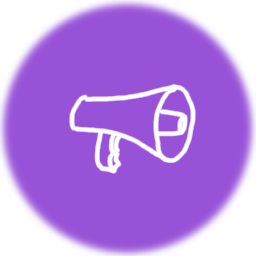
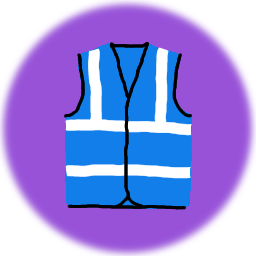
Add remaining badges and implement star system

Changed region(s): [[0.25, 0.1562, 0.7812, 0.8438]]

diff --git a/browser-extensions/chrome/js/content-scripts/content-script-athleteeventresultshistory.js b/browser-extensions/chrome/js/content-scripts/content-script-athleteeventresultshistory.js
@@ -214,11 +214,19 @@ function get_volunteer_data() {
                          // Add the badges to the list
                          Object.keys(volunteer_data).forEach(function (challenge) {
                              if (volunteer_data[challenge].complete == true) {
-                                 badges.push({
+                                 var badge_info = {
                                      "name": volunteer_data[challenge].name,
                                      "icon": chrome.extension.getURL("/images/badges/256x256/"+volunteer_data[challenge].badge_icon+".png"),
                                      "link": "#"+challenge
-                                 })
+                                 }
+                                 if (volunteer_data[challenge].subparts_completed_count >= 25){
+                                     badge_info.icon = chrome.extension.getURL("/images/badges/256x256/"+volunteer_data[challenge].badge_icon+"-3-stars.png")
+                                 } else if (volunteer_data[challenge].subparts_completed_count >= 10){
+                                     badge_info.icon = chrome.extension.getURL("/images/badges/256x256/"+volunteer_data[challenge].badge_icon+"-2-stars.png")
+                                 } else if (volunteer_data[challenge].subparts_completed_count >= 5){
+                                     badge_info.icon = chrome.extension.getURL("/images/badges/256x256/"+volunteer_data[challenge].badge_icon+"-1-star.png")
+                                 }
+                                 badges.push(badge_info)
                              }
                          })
                          add_challenge_badges(badges_div, badges)

diff --git a/browser-extensions/chrome/js/lib/challenges.js b/browser-extensions/chrome/js/lib/challenges.js
@@ -33,20 +33,20 @@ function challenge_generate_data(results) {
 function generate_volunteer_challenge_data(volunteer_data) {
 
     var volunteer_roles = [
+        {"shortname": "marshal", "name": "Marshal"},
+        {"shortname": "tail-walker", "name": "Tail Walker"},
+        {"shortname": "run-director", "name": "Run Director"},
+        {"shortname": "setup", "name": "Pre-event Setup"},
         {"shortname": "barcode-scanning", "name": "Barcode Scanning"},
         {"shortname": "close-down", "name": "Post-event Close Down"},
         {"shortname": "funnel-manager", "name": "Funnel Manager"},
         {"shortname": "manual-entry", "name": "Number Checker"},
         {"shortname": "photographer", "name": "Photographer"},
         {"shortname": "results-processing", "name": "Results Processor"},
-        {"shortname": "run-director", "name": "Run Director"},
         {"shortname": "run-report-writer", "name": "Run Report Writer"},
-        {"shortname": "setup", "name": "Pre-event Setup"},
         {"shortname": "finish-tokens", "name": "Finish Tokens"},
-        {"shortname": "marshal", "name": "Marshal"},
         {"shortname": "token-sorting", "name": "Token Sorting"},
         {"shortname": "timer", "name": "Timekeeper", "matching-roles": ["Timekeeper", "Backup Timer"]},
-        {"shortname": "tail-walker", "name": "Tail Walker"},
         {"shortname": "pacer", "name": "Pacer (5k only)"}
     ]
 

diff --git a/browser-extensions/chrome/images/badges/README.md b/browser-extensions/chrome/images/badges/README.md
@@ -1,0 +1,19 @@
+# Challenge Completion Badges
+
+There is a badge icon for each challenge completed.
+
+There are green badges for running challenges and purple badges for volunteer credits.
+The volunteer badges will get stars if you have done them 5+, 10+, & 25+ times.
+
+# Generating the stars overlay
+
+The following `imagemagick` command will add the stars to a base set of images
+```
+find . -name "volunteer-*.png" | grep -v star | cut -c 3- | sed 's/.png$//' | xargs -I % convert %.png overlays/1-star.png -composite stars/%-1-star.png
+```
+```
+find . -name "volunteer-*.png" | grep -v star | cut -c 3- | sed 's/.png$//' | xargs -I % convert %.png overlays/2-stars.png -composite stars/%-2-stars.png
+```
+```
+find . -name "volunteer-*.png" | grep -v star | cut -c 3- | sed 's/.png$//' | xargs -I % convert %.png overlays/3-stars.png -composite stars/%-3-stars.png
+```
